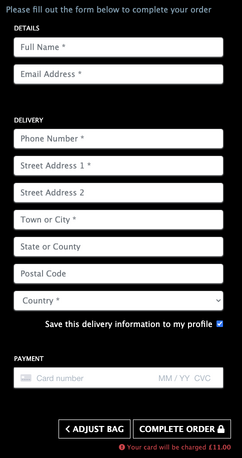
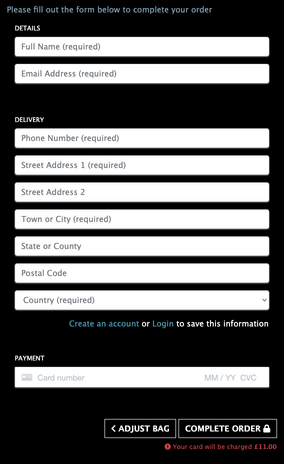
#41 docs: Update docs images and add details throughout

diff --git a/README.md b/README.md
@@ -152,6 +152,8 @@ This site was built using HTML, CSS, Bootstrap, JavaScript, jQuery, Python, Djan
 * The main colors used in this site are black, white, and yellow.
 * These main colors are the colors in the band's logo, and they permeate through the site.
 * These colors were used by the band to signify the ray of hope for a society that needs help, which is a popular ideology in the punk scene, and links with the band's song lyrics.
+* A slightly dark red has been used for all Delete buttons, to signify that this is a destructive action.
+* Two grey colors have been used for tags on the site, one slightly darker than the other to maintain AAA color contrast compliance.
 * Different colors have also been used on the hover state of the social media icons in the Contact Us page.
 * The social media icon colors have been taken directly from each external website's logo, to reference where the link would take them.
 
@@ -161,9 +163,9 @@ This site was built using HTML, CSS, Bootstrap, JavaScript, jQuery, Python, Djan
 
 * For the font, I decided to stick with the standard HTML font family. As they're sans-serif fonts, they are easy to read for dyslexic and partially visually impaired users.
 * As the standard HTML font size is 16px, I kept it at that, ensuring to not have any fonts smaller than that, to aid visually impaired users.
-* The recommended smallest font size for accessible websites is 12px, so I ensured to keep all font sizes above that.
-* A lot of the text on the website, including all headers and buttons, has been transformed to uppercase.
-* This is to link with the strong and bold feel of the site.
+* The recommended smallest font size for accessible websites is 12px, so I kept all font sizes above that.
+* A lot of the text on the website, including all headers and buttons, has been transformed to uppercase, to link with the strong and bold feel of the site.
+* Lowercase text has been used in some places to avoid the site feeling aggressive.
 * This also connects the site to the band's logos, which all use uppercase text.
 
 ![An example of the font used](static/docs/img/fonts.png)
@@ -177,7 +179,7 @@ This site was built using HTML, CSS, Bootstrap, JavaScript, jQuery, Python, Djan
 * All links have their underlines removed for stylistic purposes. The links in the footer re-gain their underlines when they're hovered over or focused on.
 * All interactable objects have hover and focus styles applied to make it clear to the user that those objects are interactable.
 * Icons from [Font Awesome](https://fontawesome.com/) have been used throughout the site to add meaning where relevant. These icons also have text either visible or in aria labels where required.
-* Button colors have been used to convey meaning, mainly in the use of the color red to convey 'Delete' or 'Cancel' as dangerous actions.
+* Button and link colors have been used to convey meaning, mainly in the use of the color red to convey 'Delete' or 'Cancel' as dangerous actions.
 
 ### Wireframes
 
@@ -191,6 +193,7 @@ This site was built using HTML, CSS, Bootstrap, JavaScript, jQuery, Python, Djan
 * This feature allows the user to:
   * Register for an account with email address, username and password.
   * Ensure no typos by entering the password twice, with the site checking to confirm that the passwords match.
+  * Ensure no typos by entering the email twice, with the site checking to confirm that the emails match.
   * Ensure the correct email address by sending a verification email to the email address the user has supplied.
   * &#128100; Store their details for a faster checkout.
   * &#128100; Keep a record of their full order history.
@@ -208,6 +211,7 @@ This site was built using HTML, CSS, Bootstrap, JavaScript, jQuery, Python, Djan
     * Alphabetically (Z-A)
     * By price (low to high)
     * By price (high to low)
+  * Click the 'Add to Bag' button for a faster shopping experience, including the ability to choose a size on products with sizes.
   * Click on a product card to view the full product details, including:
     * Name
     * Category
@@ -215,6 +219,7 @@ This site was built using HTML, CSS, Bootstrap, JavaScript, jQuery, Python, Djan
     * Image
     * Description
     * Sizes (if relevant)
+    * Audio (if relevant)
   * Click the back to top arrow button to return to the top of the page.
 
 ![Products page with back to top button](static/docs/img/products-feature.png)
@@ -226,6 +231,7 @@ This site was built using HTML, CSS, Bootstrap, JavaScript, jQuery, Python, Djan
   * Edit an existing product.
   * Delete an existing product.
   * Include images, either by URL, or by uploading directly from the superuser's computer.
+  * Include audio, by uploading directly from the superuser's computer.
 
 ![Admin functionality to create and update products](static/docs/img/crud-feature.png)
 
@@ -257,7 +263,7 @@ This site was built using HTML, CSS, Bootstrap, JavaScript, jQuery, Python, Djan
   * Safely and securely buy the items in their shopping bag through Stripe.
   * &#128100; The shipping details will be filled from any details given in the user profile.
   * &#128100; The user can select the 'Remember my details' checkbox in the checkout form to save their latest details. This is helpful when:
-    * No details are saved in the user's profile.
+    * No details are currently saved in the user's profile, and the user wishes to save their details.
     * Any of the user's details have changed from what is saved in their profile.
 * The card details form is connected to Stripe, a payment platform. This ensures a fully secure payment.
 * When the user confirms checkout, an animated loading screen shows whilst the payment details are checked by Stripe.
@@ -271,7 +277,7 @@ This site was built using HTML, CSS, Bootstrap, JavaScript, jQuery, Python, Djan
   * The user is shown a message that the payment failed.
 * If the payment succeeds:
   * The user will be sent a confirmation email.
-  * The email contains the order details and order number.
+  * The email contains the full order details and order number.
   * The user will be redirected to the checkout success page.
   * A message will display, informing the user that the payment succeeded, containing of the order details and order number.
   * &#128100; The order will be added to the user's order history in their profile.
@@ -288,6 +294,7 @@ The navigation bar changes depending on user status and screen size:
 | Home | &#9989; | &#9989; | &#9989; |
 | Products | &#9989; | &#9989; | &#9989; |
 | Product Details | &#9989; | &#9989; | &#9989; |
+| Contact Us | &#9989; | &#9989; | &#9989; |
 | Upcoming Gigs | &#9989; | &#9989; | &#9989; |
 | Product Management | &#10060; | &#10060; | &#9989; |
 | Profile | &#10060; | &#9989; | &#9989; |
@@ -330,6 +337,7 @@ The navigation bar changes depending on user status and screen size:
   * This allows users to keep up with when and where the band will be performing in the future.
   * The data has been formatted for ease of reading for the user.
   * The date data uses the [calendar](https://docs.python.org/3/library/calendar.html) Python module to get the day of the week that the gig falls on, as well as displaying the date in a user-friendly way.
+  * There is also a link to the Songkick webpage for each gig, which allows the user to purchase tickets for a specific gig.
 
 ![A gig shown on the Upcoming Gigs page, populated from the Songkick API](static/docs/img/gigs.png)
 
@@ -365,7 +373,7 @@ The navigation bar changes depending on user status and screen size:
 * Adding products to the bag
   * Custom validation has been added to ensure that users can't:
     * Add less than one of a product into their bag (such as adding a 0 quantity of a product).
-    * Add more than 99 of a product into their bag.
+    * Add more than 50 of a product into their bag.
 * Messages when an action is completed
   * A message will appear in the top right of the screen when the following actions are completed:
     * The user adds a product to their shopping bag.
@@ -381,8 +389,9 @@ The navigation bar changes depending on user status and screen size:
 * Default image
   * A default image will display if there is no image added.
   * A default image will display if the image link has broken.
-* Custom error pages - 404
+* Custom error pages
   * A custom 404 error page will show if the user attempts to visit a page that doesn't exist.
+  * A custom 500 error page will show if an internal server error occurs.
 * Webhooks
   * Webhooks form a notification system for every secure action on your site (most notably, payment intents).
   * Webhooks return an event object, containing all the relevant information about the action, including the type of action, and the data associated with it.
@@ -664,7 +673,7 @@ This database uses a SQL database through PostgreSQL. They were originally built
 ### Content
 
 * All content was created by [Abi Harrison](https://github.com/Abibubble).
-* [Click here to view links to all sites I used for research or testing](static/docs/LINKS.md)
+* [Click here to view links to all sites I used for research or testing](static/docs/LINKS.md).
 
 ### Media
 
@@ -677,10 +686,10 @@ This database uses a SQL database through PostgreSQL. They were originally built
 ### Acknowledgements
 
 * My mentor, Antonio Rodriguez, at [Code Institute](https://codeinstitute.net/), for continuous helpful feedback and support.
-* [Eve Crabb](https://github.com/evecrabb), for her support through my learning, for being a sounding board for bug fixes, and for being the best boss ever.
 * The team at [Code Institute](https://codeinstitute.net/), for teaching me the necessary skills to create this site.
-* My partner Conor Nye for his continuous support throughout my coding journey.
-* My bandmates in Lead Shot Hazard, for giving me the inspiration to create this site.
 * [Dave Horrocks](https://github.com/DaveyJH) for helping me understand the Django testing for this project, and for being incredibly patient with me through the process.
+* My partner Conor Nye for his continuous support throughout my coding journey.
+* [Eve Crabb](https://github.com/evecrabb), for her support through my learning.
+* My bandmates in Lead Shot Hazard, for giving me the inspiration to create this site.
 
 [Back to the top](#lead-shot-hazard)
